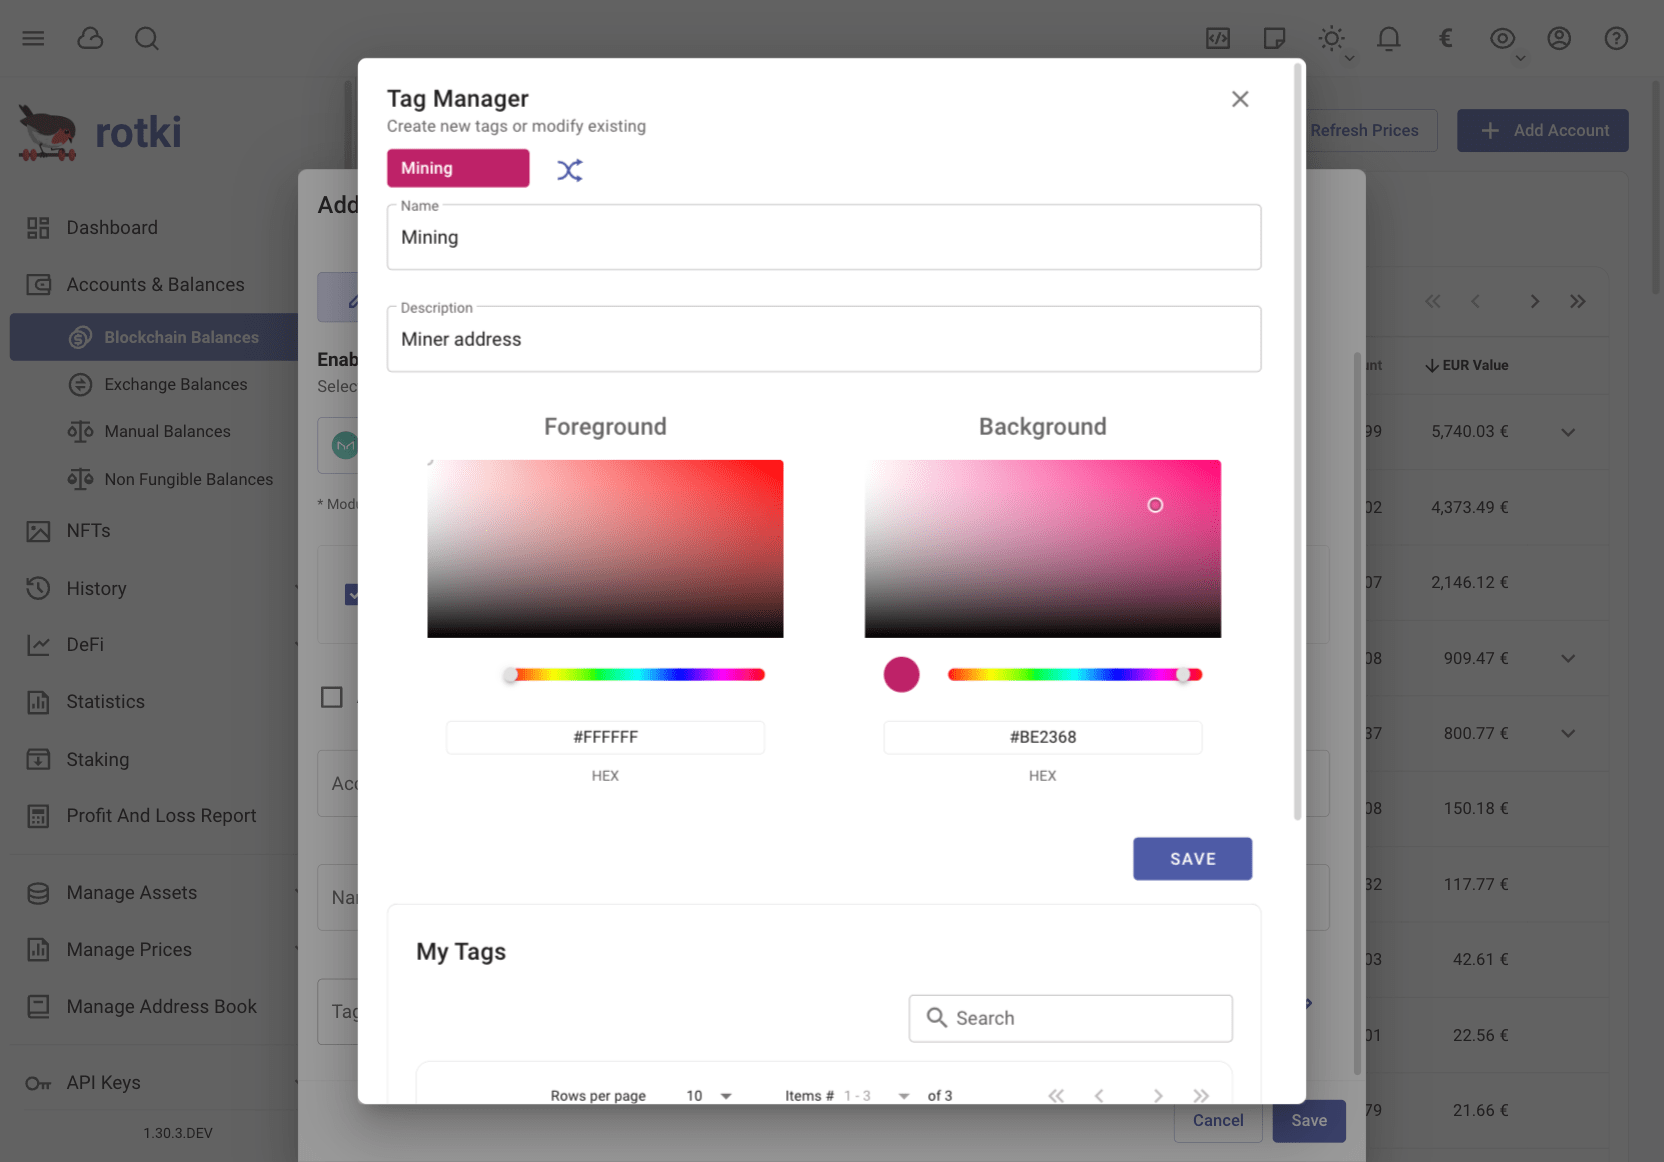
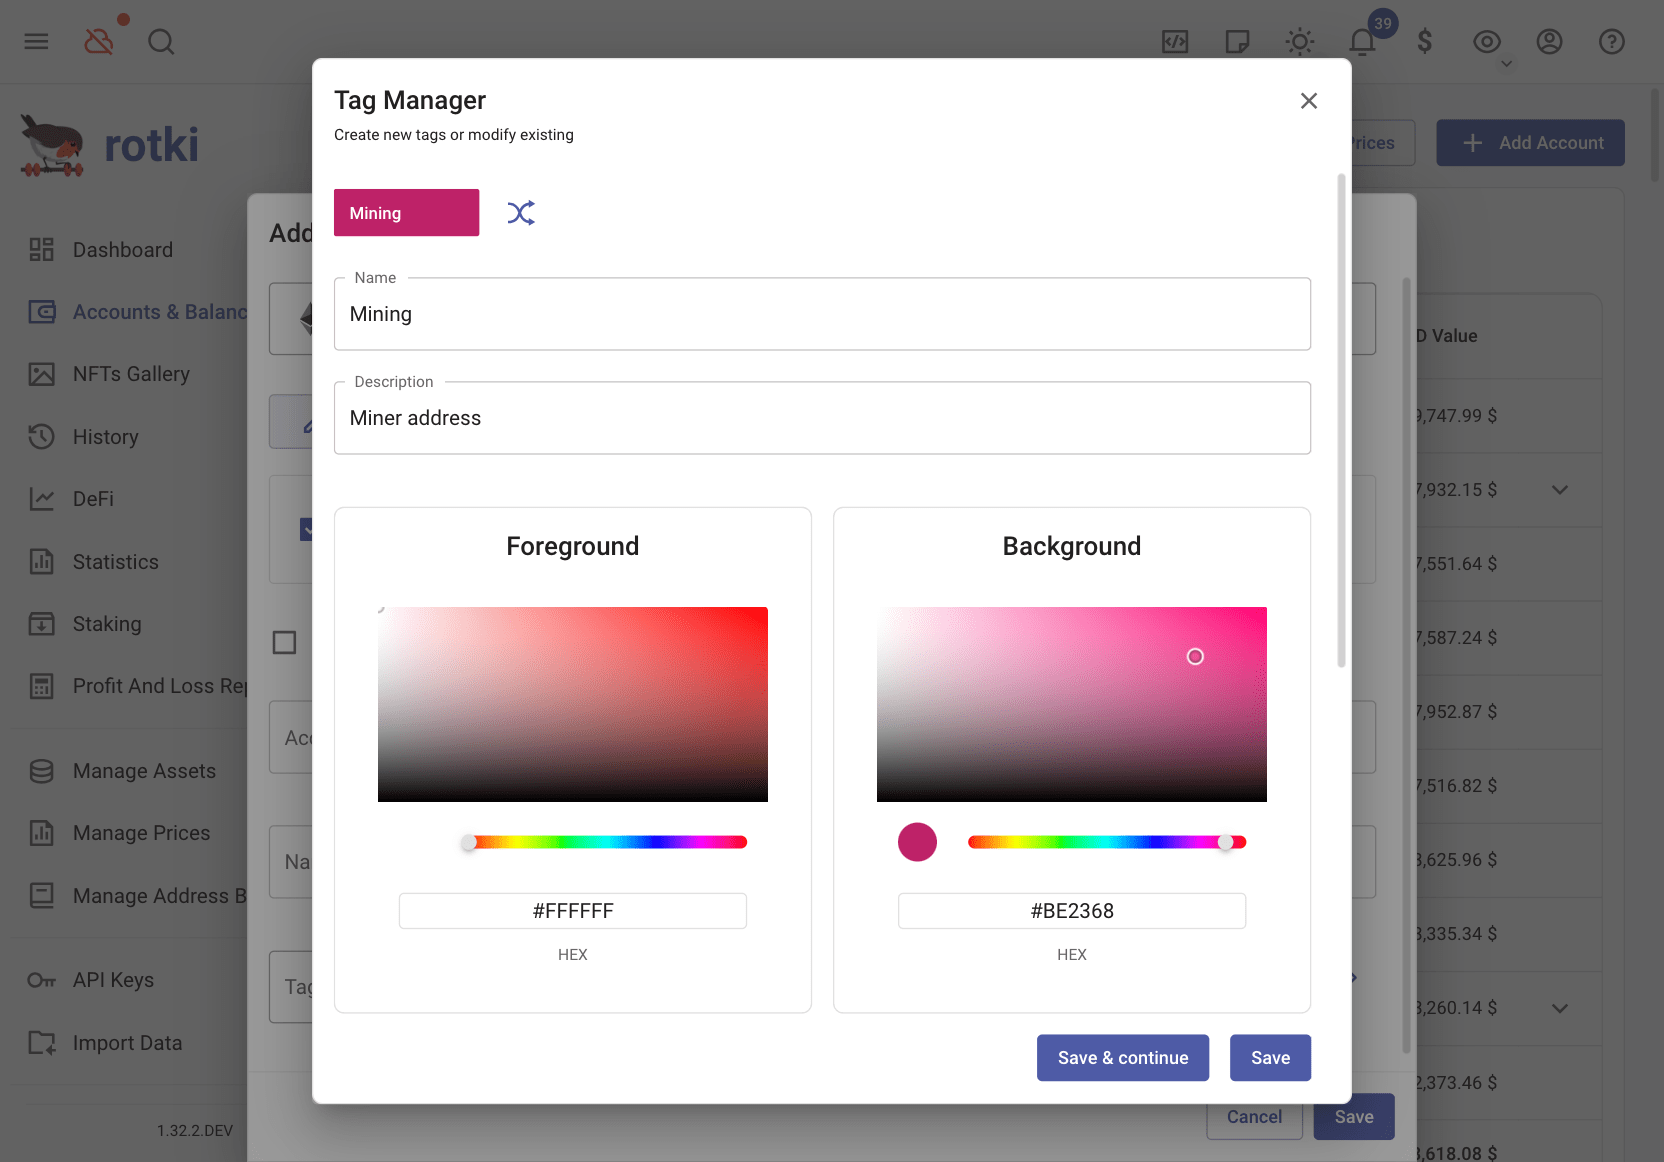
refactor(frontend): add save and continue button to tag manager (#7852)

diff --git a/frontend/app/src/components/tags/TagCreator.vue b/frontend/app/src/components/tags/TagCreator.vue
@@ -11,7 +11,7 @@ const props = defineProps<{
 
 const emit = defineEmits<{
   (e: 'update:tag', tag: Tag): void;
-  (e: 'save', tag: Tag): void;
+  (e: 'save', data: { tag: Tag; close?: boolean }): void;
   (e: 'cancel'): void;
 }>();
 
@@ -20,7 +20,8 @@ const { t } = useI18n();
 const name = usePropVModel(props, 'tag', 'name', emit);
 const description = usePropVModel(props, 'tag', 'description', emit);
 
-const { tag } = toRefs(props);
+const { tag, editMode } = toRefs(props);
+const tagPreview = ref();
 
 const rules = {
   name: {
@@ -50,12 +51,12 @@ function changed(event: TagEvent) {
   });
 }
 
-async function save() {
+async function save(close?: boolean) {
   const v = get(v$);
   if (!(await v.$validate()))
     return;
 
-  emit('save', props.tag);
+  emit('save', { tag: props.tag, close });
 }
 
 function cancel() {
@@ -73,12 +74,18 @@ function randomize() {
 watch(tag, () => {
   get(v$).$reset();
 });
+
+watchImmediate(editMode, (edit) => {
+  if (edit)
+    get(tagPreview).$el.scrollIntoView({ behavior: 'smooth' });
+});
 </script>
 
 <template>
   <div class="flex flex-col gap-4">
     <div class="flex items-center gap-4">
       <TagIcon
+        ref="tagPreview"
         class="[&>div]:min-w-[7rem]"
         :tag="tag"
       />
@@ -158,10 +165,18 @@ watch(tag, () => {
         {{ t('common.actions.cancel') }}
       </RuiButton>
       <RuiButton
-        data-cy="tag-creator__buttons__save"
+        data-cy="tag-creator__buttons__save_continue"
         color="primary"
         :disabled="v$.$invalid"
         @click="save()"
+      >
+        {{ t('common.actions.save_continue') }}
+      </RuiButton>
+      <RuiButton
+        data-cy="tag-creator__buttons__save"
+        color="primary"
+        :disabled="v$.$invalid"
+        @click="save(true)"
       >
         {{ t('common.actions.save') }}
       </RuiButton>

diff --git a/frontend/app/src/components/tags/TagManager.vue b/frontend/app/src/components/tags/TagManager.vue
@@ -44,14 +44,13 @@ const headers = computed<DataTableColumn[]>(() => [
 
 const close = () => emit('close');
 
-async function save(newTag: Tag) {
-  set(tag, defaultTag());
-  if (get(editMode)) {
+async function save({ tag: newTag, close: closeModal }: { tag: Tag; close?: boolean }) {
+  const status = await (get(editMode) ? editTag(newTag) : addTag(newTag));
+
+  if (status.success) {
+    set(tag, defaultTag());
     set(editMode, false);
-    await editTag(newTag);
-  }
-  else {
-    await addTag(newTag);
+    closeModal && close();
   }
 }
 
@@ -61,8 +60,11 @@ function cancel() {
 }
 
 function editItem(newTag: Tag) {
+  set(editMode, false);
   set(tag, newTag);
-  set(editMode, true);
+  nextTick(() => {
+    set(editMode, true);
+  });
 }
 
 const { show } = useConfirmStore();

diff --git a/frontend/app/src/store/session/tags.ts b/frontend/app/src/store/session/tags.ts
@@ -34,15 +34,20 @@ export const useTagStore = defineStore('session/tags', () => {
     }
   };
 
-  const editTag = async (tag: Tag): Promise<void> => {
+  const editTag = async (tag: Tag): Promise<ActionStatus> => {
     try {
       set(allTags, await queryEditTag(tag));
+      return { success: true };
     }
     catch (error: any) {
       setMessage({
         title: t('actions.session.tag_edit.error.title'),
         description: error.message,
       });
+      return {
+        success: false,
+        message: error.message,
+      };
     }
   };
 

diff --git a/frontend/app/tests/e2e/pages/tag-manager.ts b/frontend/app/tests/e2e/pages/tag-manager.ts
@@ -24,6 +24,5 @@ export class TagManager {
       ).type(foreground);
     }
     cy.get('[data-cy=tag-creator__buttons__save]').click();
-    cy.get('[data-cy=tag-manager__close]').click();
   }
 }
